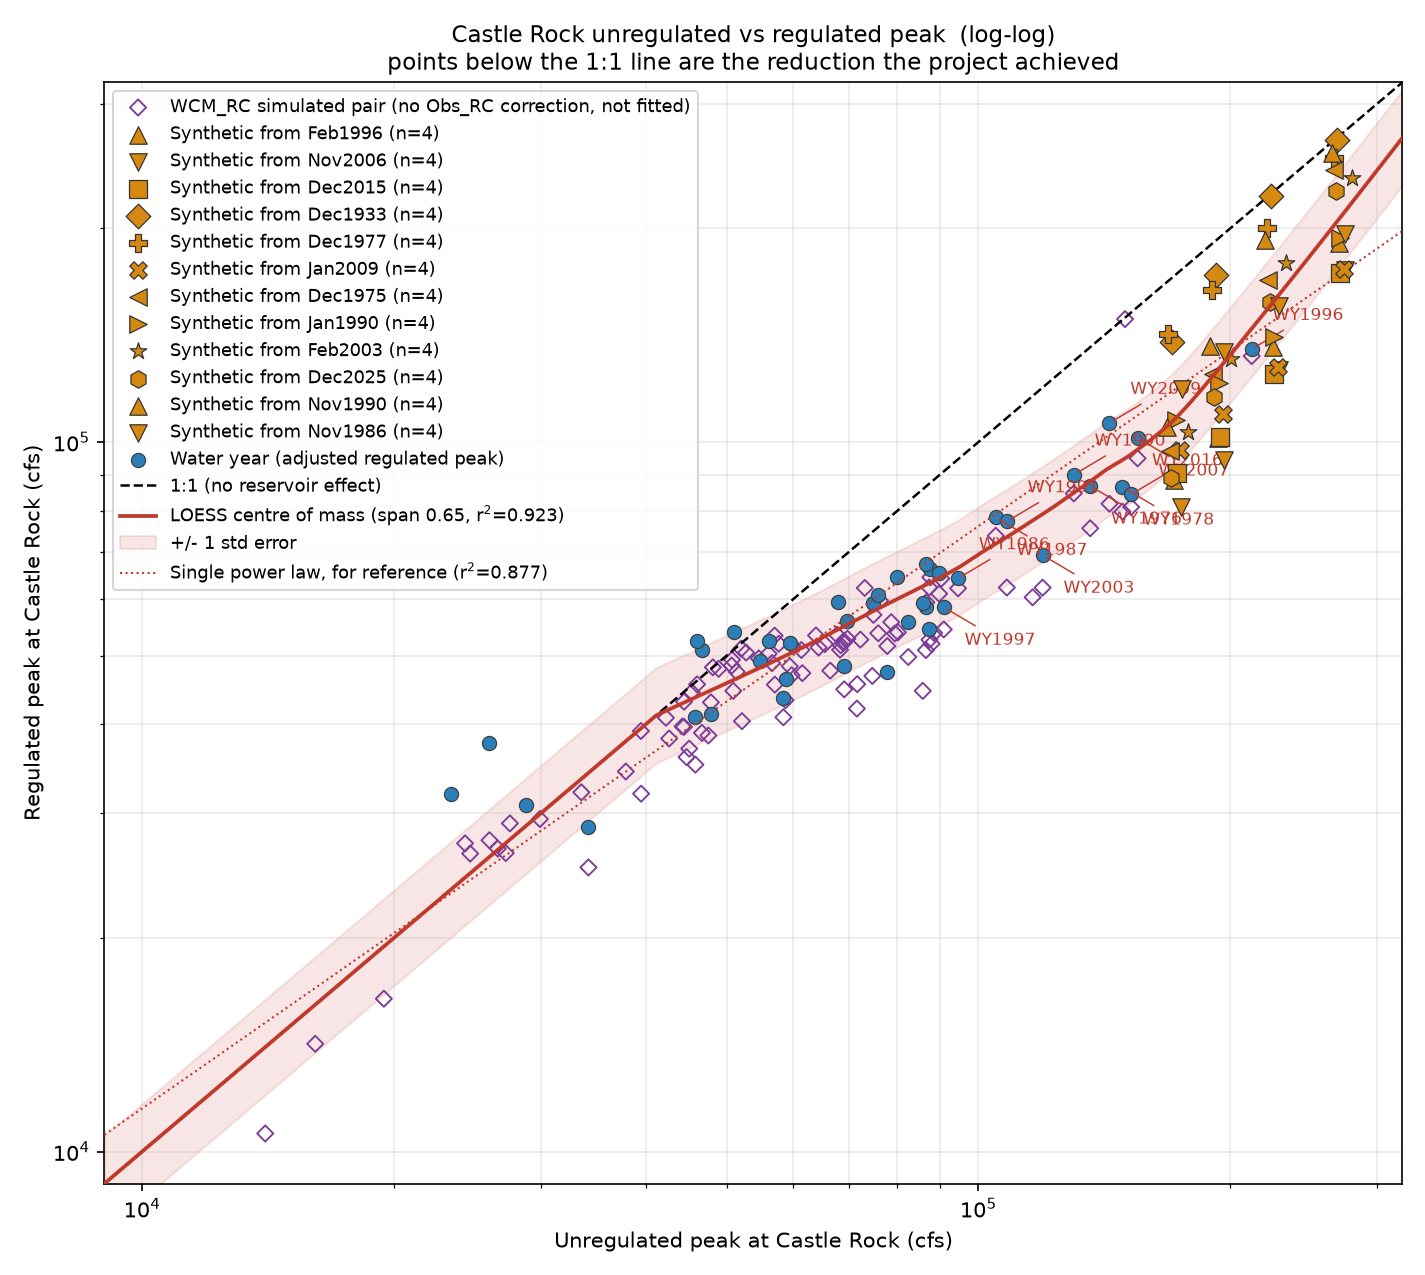
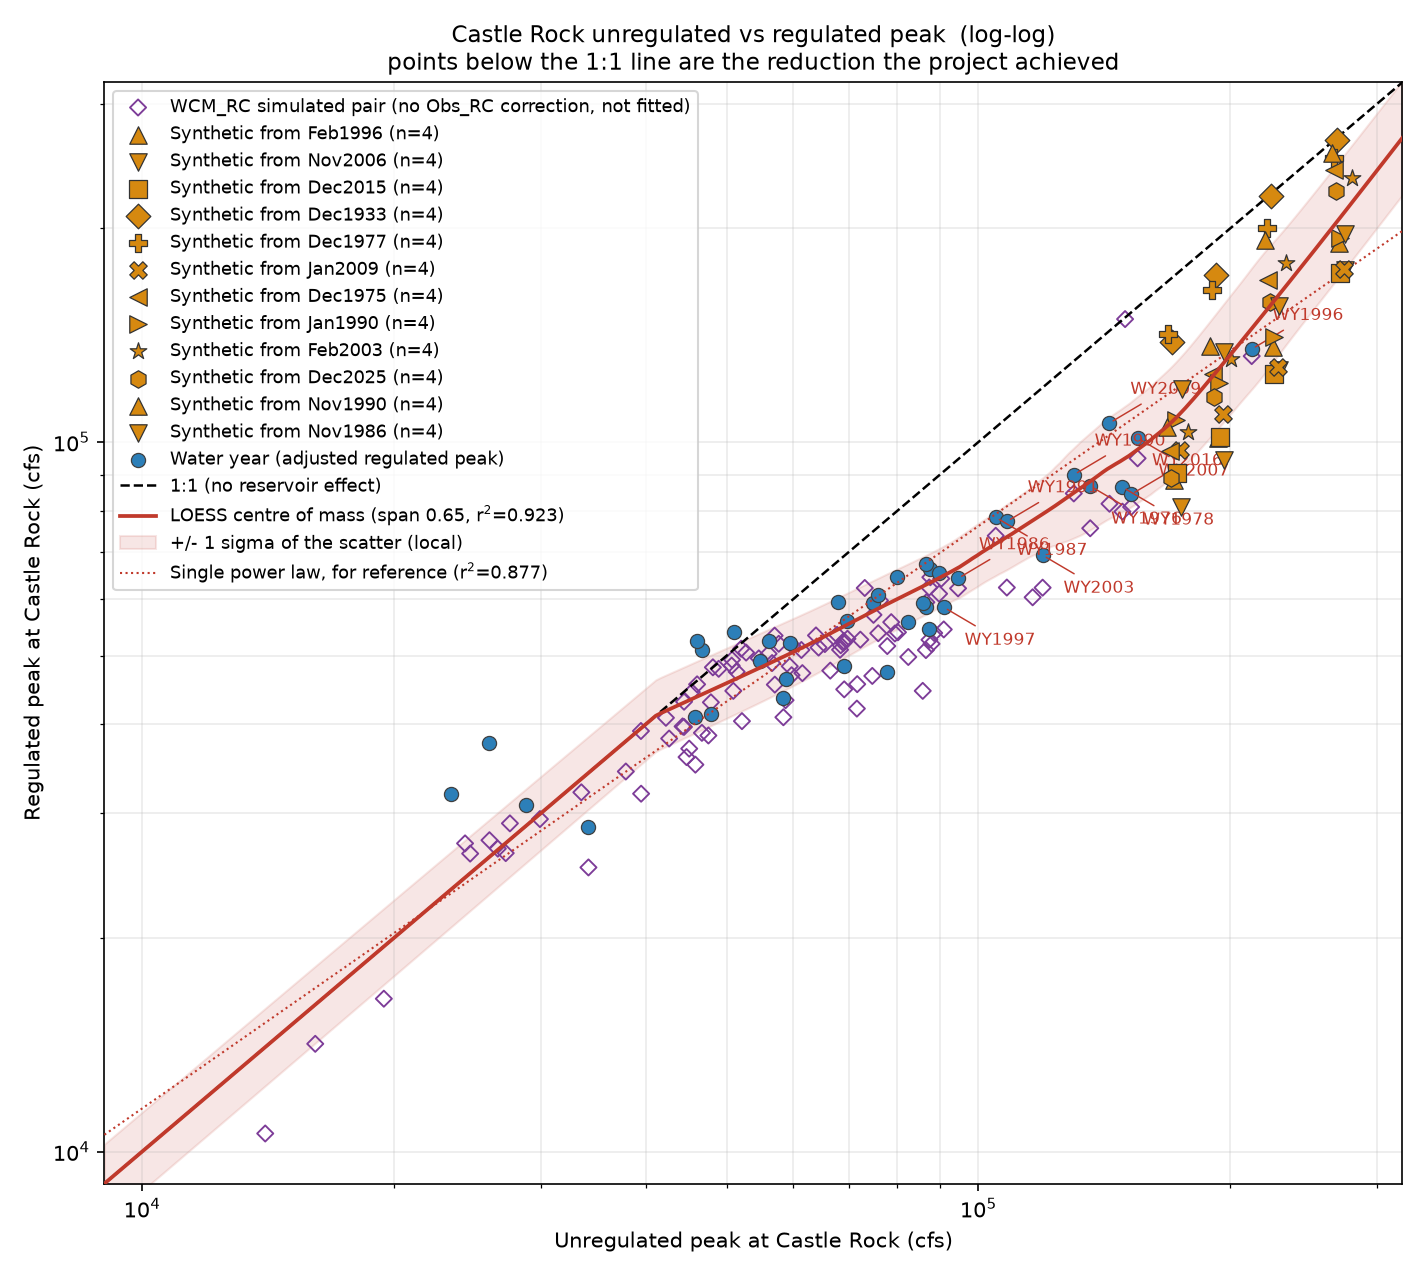
Unreg_Reg_Curve: let the transform scatter vary with magnitude
The regulated band looked like a constant ribbon because it very nearly was
one. sigma_transform was a single pooled residual sd (0.067 dex) applied at
every AEP, and it dominates the frequency term over most of the curve --
sqrt(a^2 + b^2) with b fixed and a much smaller is just b -- so the band held
+/-23 to 31% from the median out to the 2% AEP and only moved at the extreme
top.

The pooled value is also wrong, in both directions. Binning the LOESS
residuals by flow:

    below  80,000 cfs   n=21   sd 0.054 dex
    above 150,000 cfs   n=51   sd 0.079 dex

so one number is about 25% too wide at the median and 15% too narrow at the
top, which is the end the curve is drawn for. That is not noise, it is the
physics: a small flood is simply held, while whether a large one exhausts
storage depends on its shape -- the synthetics span attenuation 0.46 to 1.00
at the same magnitude.

TRANSFORM_SIGMA_MODE = "local" now measures the scatter the same way the line
is drawn: tricube-weighted residual RMS over the same neighbourhood as
loess_at, corrected by the effective sample size of the weights rather than a
raw count. sigma_transform runs 0.042 dex at the low end to 0.084 at the top,
and the 90% band goes from +/-15% at its tightest (2% AEP region) to -39/+87%
at the top instead of a flat ribbon. TRANSFORM_SIGMA_MODE = "constant"
restores the pooled value.

Applied everywhere a band is drawn, not just the adopted figure, so the
[…]

diff --git a/CAS_Reg_Unreg/src/#Unreg_Reg_Curve.py b/CAS_Reg_Unreg/src/#Unreg_Reg_Curve.py
@@ -309,6 +309,20 @@ UNCERTAINTY_CONF_LEVEL = 0.90
 #                  size could have any observed shape. The design question.
 #   "mean"       : scatter / sqrt(n), the uncertainty of the fitted line only.
 TRANSFORM_UNCERTAINTY_BASIS = "prediction"
+# How the transform's scatter is measured along the curve.
+#   "local"    : tricube-weighted residual RMS in the same neighbourhood the
+#                LOESS line was drawn from, so the band follows the data. The
+#                scatter really does grow with magnitude here -- about 0.05 dex
+#                below 80,000 cfs against 0.08 above 150,000 -- because whether
+#                a big flood exhausts storage depends on its shape, while a
+#                small one is simply held. The default.
+#   "constant" : one pooled sd everywhere. Simpler to describe, but it is about
+#                25% too wide at the median and 15% too narrow at the top, and
+#                it draws the band as a constant ribbon.
+TRANSFORM_SIGMA_MODE = "local"
+# Neighbourhood for the local scatter. Wider than LOESS_SPAN would over-smooth
+# the variance back towards constant; much narrower gets noisy at n=88.
+TRANSFORM_SIGMA_SPAN = 0.50
 # Keep the two sides of the frequency interval separate so the noncentral-t
 # asymmetry survives the combination. False averages them into one sigma.
 COMBINE_ASYMMETRIC = True
@@ -405,6 +419,9 @@ def build_transform(x, y, method):
            "x_min": float(x.min()), "x_max": float(x.max()),
            "x_obs": x, "y_obs": y}
     if method == "power":
+        lx, ly = np.log10(x), np.log10(y)
+        fit["lx"], fit["ly"] = lx, ly
+        fit["resid"] = ly - np.log10(apply_power_law(power, x))
         fit["se_dex"] = power["se_dex"]
         fit["r2"] = power["r2"]
         return fit
@@ -414,6 +431,7 @@ def build_transform(x, y, method):
     fit["span"] = LOESS_SPAN
     predicted = np.array([loess_at(lx, ly, v, LOESS_SPAN) for v in lx])
     resid = ly - predicted
+    fit["resid"] = resid
     # Effective parameters of a LOESS fit are not 2; ddof=2 is a rough and
     # slightly optimistic stand-in, matching what the power law reports so the
     # two bands are comparable.
@@ -661,9 +679,11 @@ def plot_scatter(data, fit, wcm, synth, stem):
         centre = apply_transform(fit, xs)
         ax.plot(xs, centre, color=C_REG, lw=1.8, zorder=4,
                 label=transform_label(fit))
-        band = 10 ** fit["se_dex"]
+        band = 10 ** transform_sigma_dex(fit, xs)
         ax.fill_between(xs, centre / band, centre * band, color=C_REG,
-                        alpha=0.12, zorder=1, label="+/- 1 std error")
+                        alpha=0.12, zorder=1,
+                        label="+/- 1 sigma of the scatter (%s)"
+                              % TRANSFORM_SIGMA_MODE)
         if SHOW_POWER_LAW_REFERENCE and fit["method"] != "power":
             ax.plot(xs, apply_power_law(fit["power"], xs), color=C_REG, lw=1.0,
                     ls=":", zorder=3,
@@ -720,7 +740,7 @@ def plot_frequency(freq, data, fit, wcm, synth, table_2009, stem):
     z = stats.norm.ppf(1.0 - aep_values)
     unreg_curve = freq[FREQ_VALUE_COL].values
     reg_curve = apply_transform(fit, unreg_curve)
-    band = 10 ** fit["se_dex"]
+    band = 10 ** transform_sigma_dex(fit, unreg_curve)
 
     ax.plot(z, unreg_curve, color=C_UNREG, lw=2.2, zorder=4,
             label="Unregulated peak (%s curve)" % FREQ_VALUE_COL.lower())
@@ -895,11 +915,56 @@ def transform_log_slope(fit, x_eval):
     return np.interp(np.log10(x_eval), lg, slope)
 
 
-def transform_sigma_dex(fit):
-    """The transform's own log10 sigma, prediction scatter or mean-line error."""
+def local_sigma_at(lx, resid, x0, span):
+    """Tricube-weighted RMS of the residuals near x0, in log10 space.
+
+    The variance companion to loess_at: the same neighbourhood and the same
+    weights, so the scatter is measured where the line was drawn. Corrected by
+    the effective sample size of the weights rather than a raw count, since the
+    tricube kernel means the far points in the window barely contribute.
+    """
+    n = len(lx)
+    k = int(np.ceil(span * n))
+    k = max(8, min(k, n))
+    dist = np.abs(lx - x0)
+    near = np.argsort(dist)[:k]
+    d = dist[near]
+    d_max = d.max()
+    weights = np.ones(k) if d_max <= 0 else (1.0 - (d / d_max) ** 3) ** 3
+    weights = np.clip(weights, 1e-8, None)
+    r = resid[near]
+    w_sum = weights.sum()
+    n_eff = w_sum ** 2 / np.sum(weights ** 2)
+    var = np.sum(weights * r * r) / w_sum
+    return float(np.sqrt(var * n_eff / max(n_eff - 2.0, 1.0)))
+
+
+def transform_sigma_dex(fit, x_eval):
+    """The transform's log10 sigma at each unregulated flow.
+
+    Returns an array, because the scatter is NOT constant along the curve. The
+    reservoir is predictable at small floods -- it simply holds them -- and much
+    less so at large ones, where the answer depends on whether that particular
+    flood exhausts storage. Measured on this dataset the residual sd runs about
+    0.05 dex below 80,000 cfs and 0.08 dex above 150,000, a 1.5x spread.
+
+    A single pooled se_dex splits the difference and is therefore wrong at both
+    ends -- roughly 25% too wide at the median and 15% too narrow at the top,
+    which is exactly where the curve is being used. It also makes the band look
+    like a constant ribbon, because it is one.
+
+    TRANSFORM_SIGMA_MODE = "constant" restores the pooled value.
+    """
+    x_eval = np.atleast_1d(np.asarray(x_eval, dtype=float))
+    if TRANSFORM_SIGMA_MODE == "constant" or "resid" not in fit:
+        sigma = np.full(len(x_eval), fit["se_dex"], dtype=float)
+    else:
+        lx, resid = fit["lx"], fit["resid"]
+        sigma = np.array([local_sigma_at(lx, resid, v, TRANSFORM_SIGMA_SPAN)
+                          for v in np.log10(np.clip(x_eval, 1e-6, None))])
     if TRANSFORM_UNCERTAINTY_BASIS == "mean":
-        return fit["se_dex"] / np.sqrt(max(fit["n"], 1))
-    return fit["se_dex"]
+        sigma = sigma / np.sqrt(max(fit["n"], 1))
+    return sigma
 
 
 def combine_uncertainty(freq, fit, reg_curve):
@@ -913,8 +978,8 @@ def combine_uncertainty(freq, fit, reg_curve):
     if not COMBINE_ASYMMETRIC:
         mean_side = np.nanmean(np.vstack([sigma_hi, sigma_lo]), axis=0)
         sigma_hi = sigma_lo = mean_side
-    sigma_t = transform_sigma_dex(fit)
     unreg = freq[FREQ_VALUE_COL].values.astype(float)
+    sigma_t = transform_sigma_dex(fit, unreg)
     slope = transform_log_slope(fit, unreg)
 
     total_hi = np.sqrt((slope * sigma_hi) ** 2 + sigma_t ** 2)
@@ -952,10 +1017,16 @@ def report_uncertainty(freq, unc, fit):
         return
     pct = int(round(100 * UNCERTAINTY_CONF_LEVEL))
     print("\nREGULATED CURVE UNCERTAINTY  (%d%% band, log10 sigmas)" % pct)
-    print("   transform term : %.4f dex (%s%s)"
-          % (unc["sigma_transform"], TRANSFORM_UNCERTAINTY_BASIS,
+    st = np.atleast_1d(unc["sigma_transform"])
+    print("   transform term : %.4f to %.4f dex (%s, %s%s)"
+          % (np.nanmin(st), np.nanmax(st), TRANSFORM_SIGMA_MODE,
+             TRANSFORM_UNCERTAINTY_BASIS,
              ", scatter/sqrt(%d)" % fit["n"]
              if TRANSFORM_UNCERTAINTY_BASIS == "mean" else ", full scatter"))
+    if TRANSFORM_SIGMA_MODE == "local":
+        print("                    the scatter grows with magnitude -- a big "
+              "flood's fate")
+        print("                    depends on its shape, a small one is just held")
     print("   frequency term : from the SSP %g/%g limits%s"
           % (SSP_CONF_LIMITS[0], SSP_CONF_LIMITS[1],
              " -- %s" % unc["note"] if unc["note"] else ""))
@@ -963,14 +1034,15 @@ def report_uncertainty(freq, unc, fit):
     show = pd.DataFrame({
         "AEP": freq["AEP"].values,
         "b": unc["slope"],
+        "sig_trans": np.broadcast_to(st, (len(freq),)),
         "sig_freq_lo": unc["sigma_freq_lo"], "sig_freq_hi": unc["sigma_freq_hi"],
         "sig_reg_lo": unc["sigma_reg_lo"], "sig_reg_hi": unc["sigma_reg_hi"],
         "asym": unc["asymmetry"],
     })
     show = show[show["AEP"].isin([0.5, 0.1, 0.02, 0.01, 0.005, 0.002, 0.001])]
-    print(show.round({"AEP": 4, "b": 3, "sig_freq_lo": 4, "sig_freq_hi": 4,
-                      "sig_reg_lo": 4, "sig_reg_hi": 4, "asym": 3})
-          .to_string(index=False))
+    print(show.round({"AEP": 4, "b": 3, "sig_trans": 4, "sig_freq_lo": 4,
+                      "sig_freq_hi": 4, "sig_reg_lo": 4, "sig_reg_hi": 4,
+                      "asym": 3}).to_string(index=False))
     n_clip = int(unc["reg_upper_clipped"].sum())
     if n_clip:
         aeps = freq["AEP"].values[unc["reg_upper_clipped"]]
@@ -1043,8 +1115,11 @@ def plot_final_uncertainty(freq, fit, unc, reg_curve, table_2009, stem):
     ax.legend(loc="upper left", fontsize=9.5, framealpha=0.92)
     ax.text(0.995, 0.015,
             "Regulated band = sqrt( (b x freq sigma)$^2$ + transform sigma$^2$ ), "
-            "b = dlog(reg)/dlog(unreg)\ntransform sigma = %.3f dex (%s)"
-            % (unc["sigma_transform"], TRANSFORM_UNCERTAINTY_BASIS),
+            "b = dlog(reg)/dlog(unreg)\ntransform sigma %.3f to %.3f dex "
+            "(%s, %s)"
+            % (np.nanmin(unc["sigma_transform"]),
+               np.nanmax(unc["sigma_transform"]),
+               TRANSFORM_SIGMA_MODE, TRANSFORM_UNCERTAINTY_BASIS),
             transform=ax.transAxes, ha="right", va="bottom", fontsize=8,
             color="0.25",
             bbox=dict(boxstyle="round,pad=0.35", fc="white", ec="0.6",
@@ -1070,7 +1145,7 @@ def plot_final_curves(freq, fit, table_2009, stem):
     ax.plot(z, unreg_curve, color=C_UNREG, lw=2.6, zorder=4,
             label="Unregulated")
     ax.plot(z, reg_curve, color=C_REG, lw=2.6, zorder=4, label="Regulated")
-    band = 10 ** fit["se_dex"]
+    band = 10 ** transform_sigma_dex(fit, unreg_curve)
     ax.fill_between(z, reg_curve / band, reg_curve * band, color=C_REG,
                     alpha=0.13, zorder=1, label="Regulated, +/- 1 std error")
     if table_2009 is not None and len(table_2009):
@@ -1189,7 +1264,16 @@ def main():
               % (fit["power"]["a"], fit["power"]["b"], fit["power"]["r2"]))
     print("Supported over unregulated %s to %s cfs"
           % (format(int(fit["x_min"]), ","), format(int(fit["x_max"]), ",")))
-    print("Scatter about the line: x/ %.3f (1 sigma)" % 10 ** fit["se_dex"])
+    if TRANSFORM_SIGMA_MODE == "local":
+        edges = transform_sigma_dex(fit, np.array([fit["x_min"], fit["x_max"]]))
+        print("Scatter about the line: x/ %.3f at %s cfs to x/ %.3f at %s cfs"
+              % (10 ** edges[0], format(int(fit["x_min"]), ","),
+                 10 ** edges[1], format(int(fit["x_max"]), ",")))
+        print("            (local, span %.2f; pooled would be x/ %.3f everywhere)"
+              % (TRANSFORM_SIGMA_SPAN, 10 ** fit["se_dex"]))
+    else:
+        print("Scatter about the line: x/ %.3f (1 sigma, pooled)"
+              % 10 ** fit["se_dex"])
     print("Monotonic enforced: %s   clipped at 1:1: %s"
           % (ENFORCE_MONOTONIC, CLIP_TO_UNREG))
     print("=" * 78)
@@ -1208,7 +1292,7 @@ def main():
     out = freq[["AEP", "Value", FREQ_VALUE_COL]].copy()
     out = out.rename(columns={"Value": "unreg_computed_cfs",
                               FREQ_VALUE_COL: "unreg_expected_cfs"})
-    band = 10 ** fit["se_dex"]
+    band = 10 ** transform_sigma_dex(fit, out["unreg_expected_cfs"].values)
     out["reg_inferred_cfs"] = reg_curve
     out["reg_lower_1se_cfs"] = reg_curve / band
     out["reg_upper_1se_cfs"] = reg_curve * band
